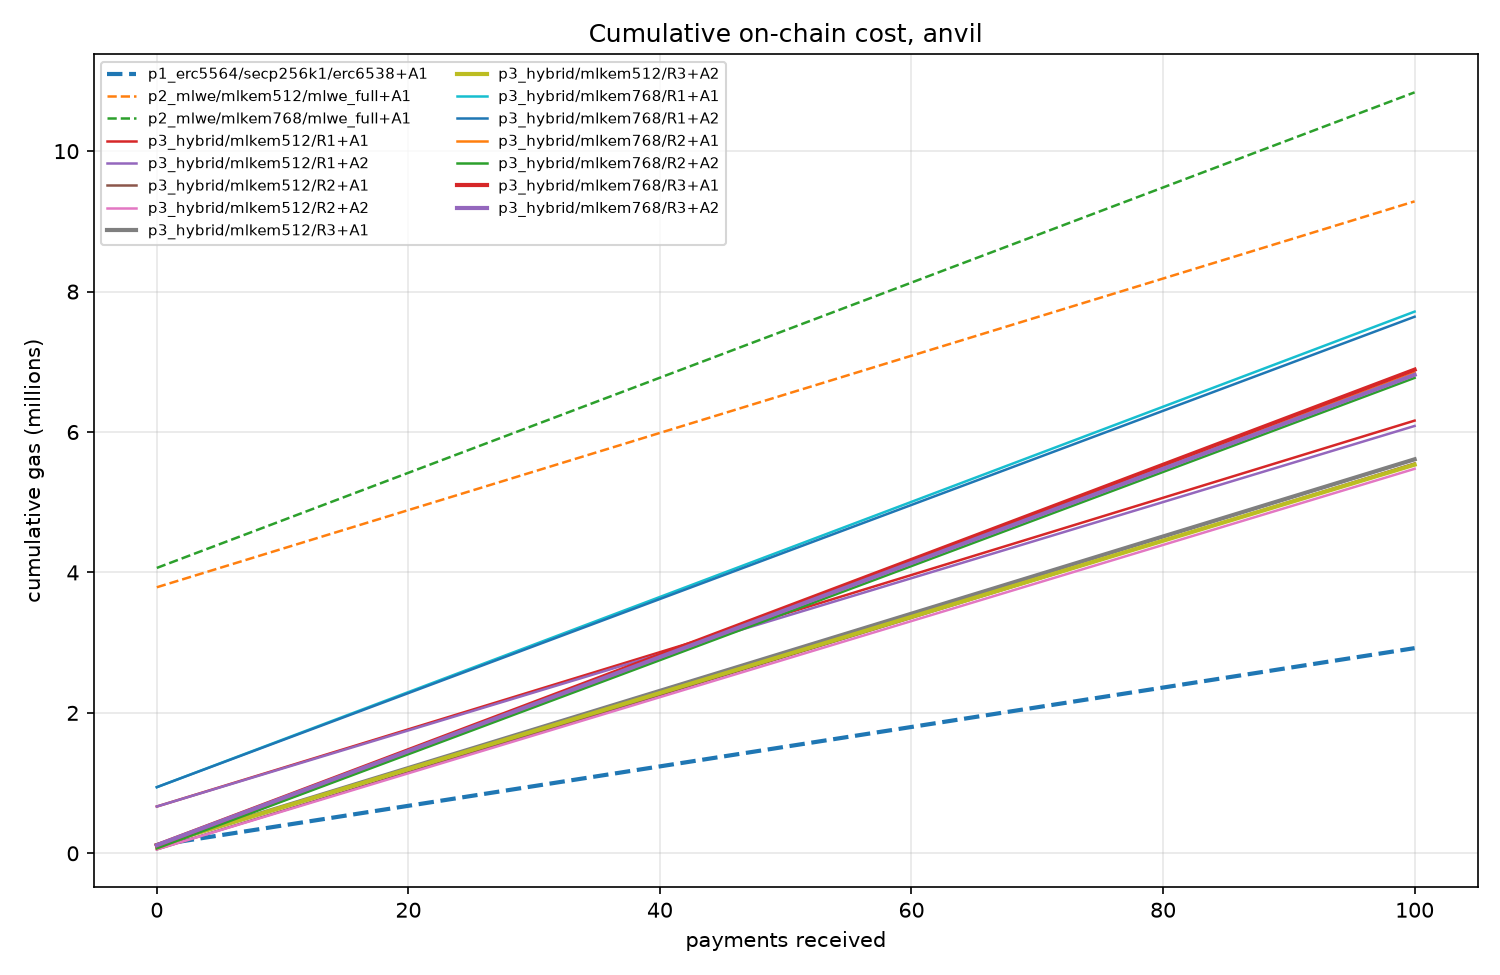
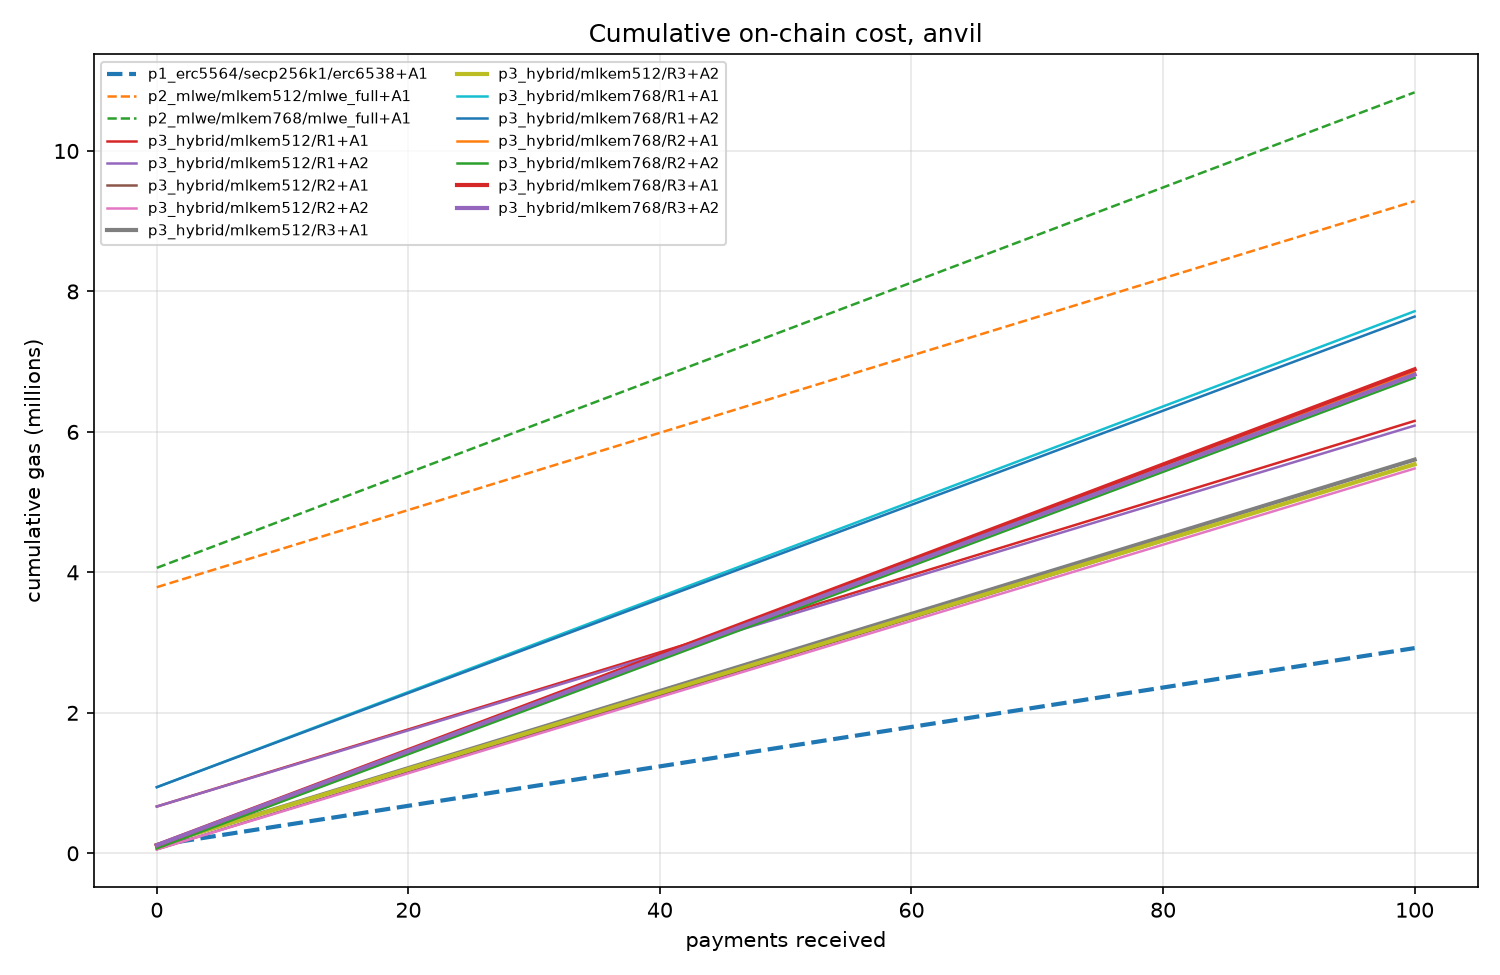
Regenerate sizes, curves and report from the re-measure
Generated at b3dad62 from a clean tree, from the run recorded there
(measured at 8483324). sizes.csv changes only in its commit column.

The report picks up the new announcement medians, and for the first time
the report changes from the view-tag commit: the Q1 table shows both tag
designs, and P3's quantum-leak row reads "none (pre-fix h[0] tag:
partial, Q1)".

Changes at the precision the report prints, ML-KEM-768: P2 announcement
67,730 -> 67,700, cumulative k=10 4.742M -> 4.741M, k=100 10.837M ->
10.834M, crossover 86.5 -> 86.6. P3 R1+A1 announcement 67,730 -> 67,760,
k=1 1.009M -> 1.010M, k=100 7.715M -> 7.718M. P3 R3+A2, R2+A2 and every
registration figure are unchanged.

Two lines are stale in this version. The provenance warning fires
because the report is generated one commit after the measurement; only
bench/results/ and broadcast/ changed in between. Section 6 still reads
the old scan.csv, whose P3 rows predate the view-tag change; bench.scan
is re-run next.

diff --git a/bench/results/report_anvil.md b/bench/results/report_anvil.md
@@ -1,18 +1,19 @@
 # PQ-SAP measurement report — anvil
 
-Generated from `bench/results/` at commit `79486c91812d`. Every figure traces to a CSV row; nothing here is recomputed or adjusted.
+Generated from `bench/results/` at commit `b3dad62fcd22`. Every figure traces to a CSV row; nothing here is recomputed or adjusted.
 
 > **These are local-chain measurements.** Gas *units* are deterministic and will reproduce on any chain running the same EVM version, so the comparisons below stand. Fee columns — and in particular Base Sepolia's separate L1 data fee — require the testnet runs and are not yet filled in.
 
 ## Provenance
 
 - Measured on: `anvil` (chain state recorded per row)
-- **Measured at commit:** `79486c91812d`
+- **Measured at commit:** `8483324d024b`
 - liboqs: 0.16.0 via liboqs-python 0.16.0
 - solc 0.8.28, optimizer runs 200
 - Machine: macOS-26.5.2-arm64-arm-64bit, Python 3.12.11
 - Samples per target: 20
-- Measurement timestamp: 2026-10-14T04:20:27.474148+00:00
+- Measurement timestamp: 2026-11-09T13:11:53.909848+00:00
+- ⚠ The working tree has moved on since these numbers were taken. Re-run `bench.gas` before quoting them if any contract changed.
 
 ## 1. The three protocols, head to head
 
@@ -26,11 +27,11 @@ P2 and P3 are both shown at ML-KEM-768, so a security-level difference is never 
 | Fetched off-chain, per recipient | — | — | — | — | 1,184 B |
 | **Announcement payload** | 33 B | 1,088 B | 1,088 B | 1,088 B | 1,088 B |
 | **Registration gas** | 115,316 | 4,064,437 | 941,744 | 71,170 | 115,264 |
-| **Announcement gas** | 28,067 | 67,730 | 67,730 | 67,000 | 67,000 |
-| Cumulative at k=1 | 0.143M | 4.132M | 1.009M | 0.138M | 0.182M |
-| Cumulative at k=10 | 0.396M | 4.742M | 1.619M | 0.741M | 0.785M |
-| Cumulative at k=100 | 2.922M | 10.837M | 7.715M | 6.771M | 6.815M |
-| Crossover (payments) | 13.3 | 86.5 | 19.7 | 1.1 | 2.0 |
+| **Announcement gas** | 28,067 | 67,700 | 67,760 | 67,000 | 67,000 |
+| Cumulative at k=1 | 0.143M | 4.132M | 1.010M | 0.138M | 0.182M |
+| Cumulative at k=10 | 0.396M | 4.741M | 1.619M | 0.741M | 0.785M |
+| Cumulative at k=100 | 2.922M | 10.834M | 7.718M | 6.771M | 6.815M |
+| Crossover (payments) | 13.3 | 86.6 | 19.7 | 1.1 | 2.0 |
 | Scan time per announcement | 30.71 µs | 28.23 µs | 29.28 µs | 28.20 µs | 28.20 µs |
 | Scan bytes per announcement | 224 B | 1,248 B | 1,248 B | 1,284 B | 1,284 B |
 | Scan RPC round trips | 0 | 0 | 0 | 1 | 1 |
@@ -56,7 +57,7 @@ Qualitative properties, from the protocol definitions:
 | Resists harvest-now-decrypt-later | no | yes | yes |
 | Spendable on unmodified EVM | yes | **no** | yes |
 | Dual-key separation (view ≠ spend) | yes | yes | yes |
-| Quantum leak once an address spends | total | none | partial (Q1) |
+| Quantum leak once an address spends | total | none | none (pre-fix h[0] tag: partial, Q1) |
 | Off-chain availability dependency | none | none | R3 only — key served off-chain |
 | ERC-5564 scheme id | 1 (standard) | 0x4D4C5745 (ours) | 0x50513348 (ours) |
 
@@ -80,18 +81,18 @@ Medians over 20 fresh keypairs and 20 fresh EOAs per variant. First registration
 |---|---|---|---|---|---|
 | p1_erc5564 | secp256k1 | erc6538 | A1 | 115,316 | 28,067 |
 | p2_mlwe | mlkem512 | mlwe_full | A1 | 3,788,933 | 54,960 |
-| p2_mlwe | mlkem768 | mlwe_full | A1 | 4,064,437 | 67,730 |
-| p3_hybrid | mlkem512 | R1 | A1 | 666,234 | 54,960 |
-| p3_hybrid | mlkem512 | R1 | A2 | 666,234 | 54,200 |
-| p3_hybrid | mlkem768 | R1 | A1 | 941,744 | 67,730 |
+| p2_mlwe | mlkem768 | mlwe_full | A1 | 4,064,437 | 67,700 |
+| p3_hybrid | mlkem512 | R1 | A1 | 666,234 | 54,900 |
+| p3_hybrid | mlkem512 | R1 | A2 | 666,234 | 54,230 |
+| p3_hybrid | mlkem768 | R1 | A1 | 941,744 | 67,760 |
 | p3_hybrid | mlkem768 | R1 | A2 | 941,744 | 67,000 |
-| p3_hybrid | mlkem512 | R2 | A1 | 55,810 | 54,960 |
-| p3_hybrid | mlkem512 | R2 | A2 | 55,810 | 54,200 |
-| p3_hybrid | mlkem768 | R2 | A1 | 71,170 | 67,730 |
+| p3_hybrid | mlkem512 | R2 | A1 | 55,810 | 54,900 |
+| p3_hybrid | mlkem512 | R2 | A2 | 55,810 | 54,230 |
+| p3_hybrid | mlkem768 | R2 | A1 | 71,170 | 67,760 |
 | p3_hybrid | mlkem768 | R2 | A2 | 71,170 | 67,000 |
-| p3_hybrid | mlkem512 | R3 | A1 | 115,264 | 54,960 |
-| p3_hybrid | mlkem512 | R3 | A2 | 115,264 | 54,200 |
-| p3_hybrid | mlkem768 | R3 | A1 | 115,264 | 67,730 |
+| p3_hybrid | mlkem512 | R3 | A1 | 115,264 | 54,900 |
+| p3_hybrid | mlkem512 | R3 | A2 | 115,264 | 54,230 |
+| p3_hybrid | mlkem768 | R3 | A1 | 115,264 | 67,760 |
 | p3_hybrid | mlkem768 | R3 | A2 | 115,264 | 67,000 |
 
 ## 4. Cost ratios and crossover
@@ -102,7 +103,7 @@ Crossover is the payment count at which cumulative announcements overtake regist
 |---|---|---|---|
 | p1_erc5564/secp256k1/erc6538+A1 | — | — | 13.3 |
 | p2_mlwe/mlkem512/mlwe_full+A1 | 32.86x | 1.96x | 111.0 |
-| p2_mlwe/mlkem768/mlwe_full+A1 | 35.25x | 2.41x | 86.5 |
+| p2_mlwe/mlkem768/mlwe_full+A1 | 35.25x | 2.41x | 86.6 |
 | p3_hybrid/mlkem512/R1+A1 | 5.78x | 1.96x | 19.0 |
 | p3_hybrid/mlkem512/R1+A2 | 5.78x | 1.93x | 19.4 |
 | p3_hybrid/mlkem768/R1+A1 | 8.17x | 2.41x | 19.7 |
@@ -124,18 +125,18 @@ Total gas after k payments, including registration. This is the headline: which 
 |---|---|---|---|---|
 | p1_erc5564/secp256k1/erc6538+A1 | 0.143M | 0.396M | 1.519M | 2.922M |
 | p2_mlwe/mlkem512/mlwe_full+A1 | 3.844M | 4.339M | 6.537M | 9.285M |
-| p2_mlwe/mlkem768/mlwe_full+A1 | 4.132M | 4.742M | 7.451M | 10.837M |
-| p3_hybrid/mlkem512/R1+A1 | 0.721M | 1.216M | 3.414M | 6.162M |
-| p3_hybrid/mlkem512/R1+A2 | 0.720M | 1.208M | 3.376M | 6.086M |
-| p3_hybrid/mlkem768/R1+A1 | 1.009M | 1.619M | 4.328M | 7.715M |
+| p2_mlwe/mlkem768/mlwe_full+A1 | 4.132M | 4.741M | 7.449M | 10.834M |
+| p3_hybrid/mlkem512/R1+A1 | 0.721M | 1.215M | 3.411M | 6.156M |
+| p3_hybrid/mlkem512/R1+A2 | 0.720M | 1.209M | 3.378M | 6.089M |
+| p3_hybrid/mlkem768/R1+A1 | 1.010M | 1.619M | 4.330M | 7.718M |
 | p3_hybrid/mlkem768/R1+A2 | 1.009M | 1.612M | 4.292M | 7.642M |
-| p3_hybrid/mlkem512/R2+A1 | 0.111M | 0.605M | 2.804M | 5.552M |
-| p3_hybrid/mlkem512/R2+A2 | 0.110M | 0.598M | 2.766M | 5.476M |
-| p3_hybrid/mlkem768/R2+A1 | 0.139M | 0.748M | 3.458M | 6.844M |
+| p3_hybrid/mlkem512/R2+A1 | 0.111M | 0.605M | 2.801M | 5.546M |
+| p3_hybrid/mlkem512/R2+A2 | 0.110M | 0.598M | 2.767M | 5.479M |
+| p3_hybrid/mlkem768/R2+A1 | 0.139M | 0.749M | 3.459M | 6.847M |
 | p3_hybrid/mlkem768/R2+A2 | 0.138M | 0.741M | 3.421M | 6.771M |
-| p3_hybrid/mlkem512/R3+A1 | 0.170M | 0.665M | 2.863M | 5.611M |
-| p3_hybrid/mlkem512/R3+A2 | 0.169M | 0.657M | 2.825M | 5.535M |
-| p3_hybrid/mlkem768/R3+A1 | 0.183M | 0.793M | 3.502M | 6.888M |
+| p3_hybrid/mlkem512/R3+A1 | 0.170M | 0.664M | 2.860M | 5.605M |
+| p3_hybrid/mlkem512/R3+A2 | 0.169M | 0.658M | 2.827M | 5.538M |
+| p3_hybrid/mlkem768/R3+A1 | 0.183M | 0.793M | 3.503M | 6.891M |
 | p3_hybrid/mlkem768/R3+A2 | 0.182M | 0.785M | 3.465M | 6.815M |
 
 ## 6. Receiver scan cost (Q3)
@@ -152,15 +153,15 @@ Total gas after k payments, including registration. This is the headline: which 
 
 ## 7. Anonymity under a quantum adversary (Q1)
 
-Anonymity set for a **spent** P3 address under a quantum adversary (ECDLP broken, ML-KEM intact), at the deployed 8-bit view tag:
+Anonymity set for a **spent** P3 address under a quantum adversary (ECDLP broken, ML-KEM intact), at the deployed 8-bit view tag width. P3 deploys the domain-separated tag, which the adversary cannot evaluate; the h[0] columns are the **pre-fix design**, kept for comparison.
 
-| Registry size | Expected set | Mean (simulated) | Uniquely identified |
-|---|---|---|---|
-| 100 | 1.39 | 1.41 | 66.6% |
-| 1,000 | 4.90 | 4.90 | 1.8% |
-| 10,000 | 40.06 | 39.92 | 0.0% |
-| 100,000 | 391.62 | 391.27 | 0.0% |
-| 1,000,000 | 3,907.25 | 3,906.29 | 0.0% |
+| Registry size | h[0] tag (pre-fix): expected set | Mean (simulated) | Uniquely identified | Domain-separated tag (deployed): mean set | Uniquely identified |
+|---|---|---|---|---|---|
+| 100 | 1.39 | 1.41 | 66.6% | 100.00 | 0.0% |
+| 1,000 | 4.90 | 4.90 | 1.8% | 1,000.00 | 0.0% |
+| 10,000 | 40.06 | 39.92 | 0.0% | 10,000.00 | 0.0% |
+| 100,000 | 391.62 | 391.27 | 0.0% | 100,000.00 | 0.0% |
+| 1,000,000 | 3,907.25 | 3,906.29 | 0.0% | 1,000,000.00 | 0.0% |
 
 ---
 
